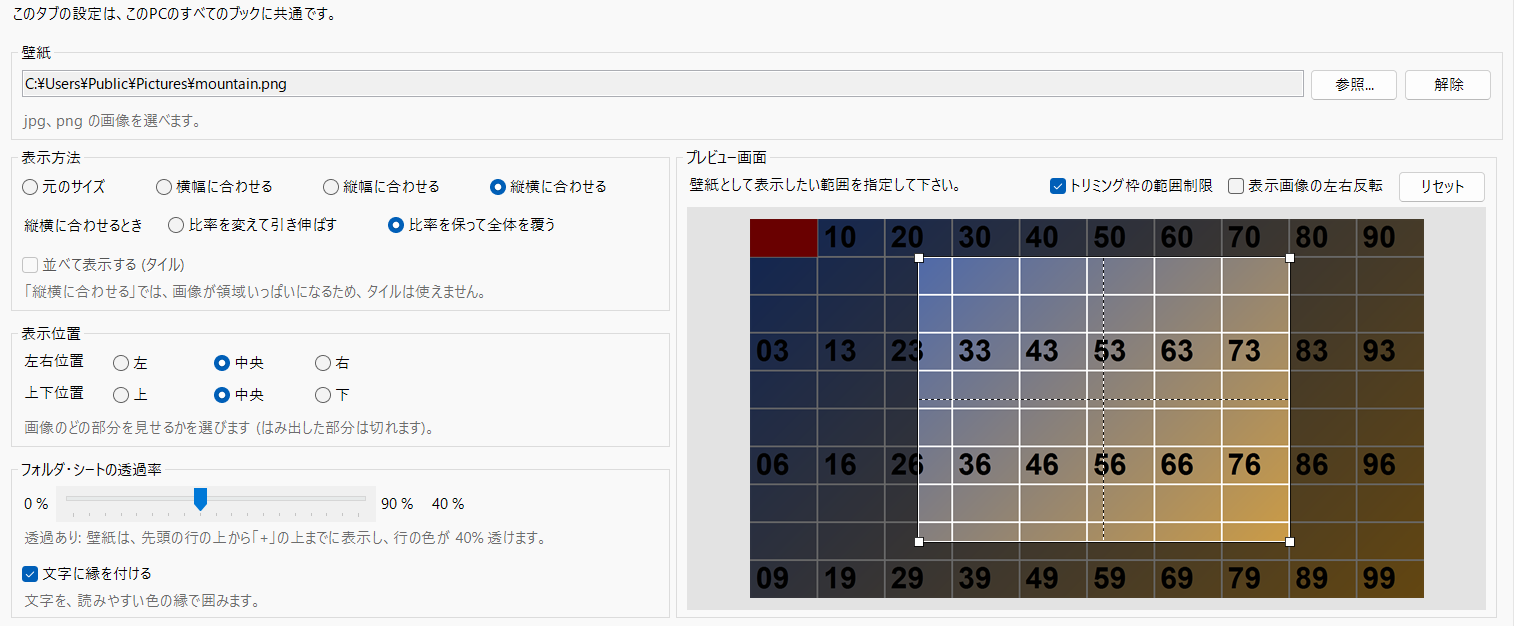
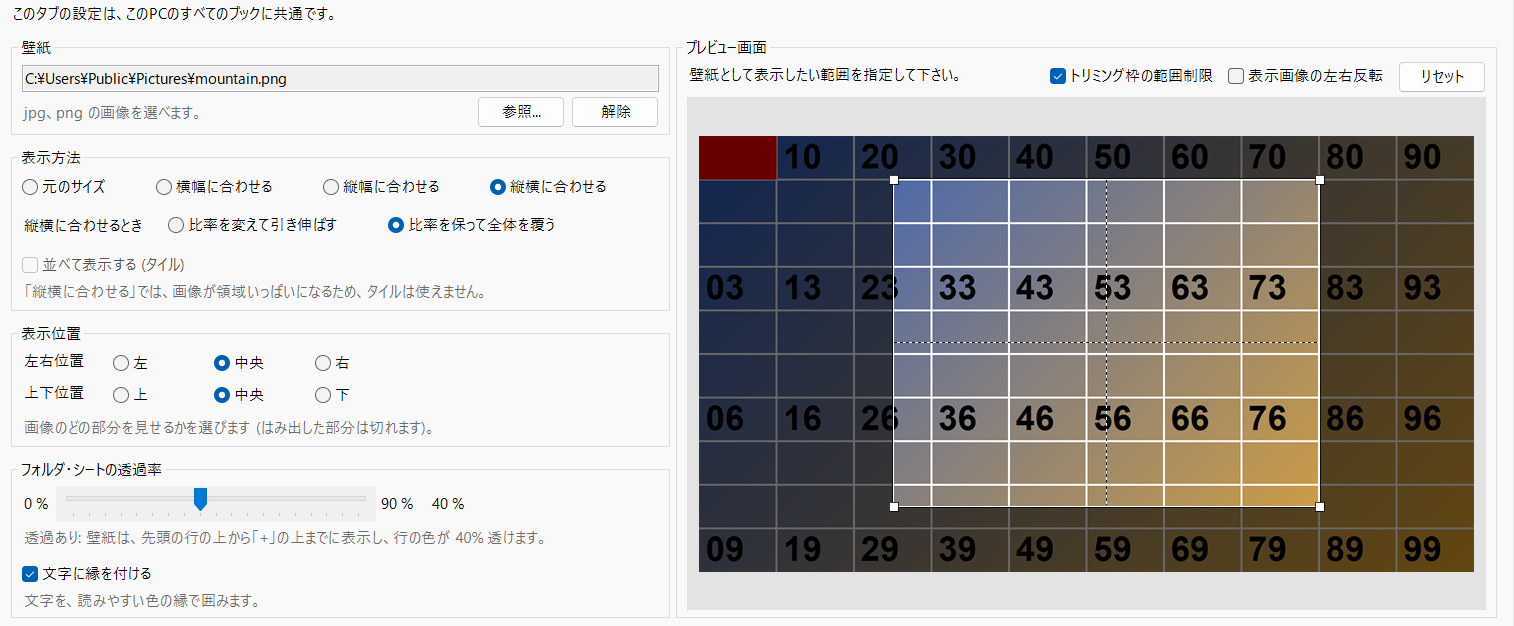
設定画面の「背景」タブの配置を変える (壁紙を左の列に入れる)
- 壁紙のグループを全幅の上段から、左の列の最上段へ移した。プレビュー画面は、右の列の全高になる
- 壁紙のグループは、パス欄を全幅の1段目、説明文と「参照...」「解除」を2段目にした (高さは従来と同じ)
- Agents.md、DEVELOPMENT.md の配置の記述と、README の画像 (settings_background、settings_full) を更新

Changed region(s): [[0.0, 0.0607, 0.9934, 0.9712]]

diff --git a/VerticalSheetTabs/SettingsBackground.cs b/VerticalSheetTabs/SettingsBackground.cs
@@ -77,10 +77,12 @@ namespace VerticalSheetTabs
             _pathBox.Margin = new Padding(3, 4, 3, 3);
             _pathBox.MinimumSize = new Size(260, 0);
             table.Controls.Add(_pathBox, 0, 0);
-            table.Controls.Add(browse, 1, 0);
-            table.Controls.Add(clear, 2, 0);
+            table.SetColumnSpan(_pathBox, 3);
             table.Controls.Add(_status, 0, 1);
-            table.SetColumnSpan(_status, 3);
+            table.Controls.Add(browse, 1, 1);
+            table.Controls.Add(clear, 2, 1);
+            _status.Anchor = AnchorStyles.Left;
+            browse.Margin = clear.Margin = new Padding(3, 1, 3, 0);   // (the group is as high as before the buttons moved below the path box)
             WallpaperGroup = Group("壁紙", font, table, true);
 
             // 表示方法
@@ -194,14 +196,14 @@ namespace VerticalSheetTabs
             Refresh();
         }
 
-        // The lower part of the tab (the whole row is width pixels wide): on the left 表示方法, 表示位置 and 透過率 one below the other,
-        // on the right the preview, as high as the three together.
+        // The body of the tab (the whole row is width pixels wide): on the left 壁紙, 表示方法, 表示位置 and 透過率 one below the other,
+        // on the right the preview, as high as the four together.
         public Control BodyRow(int width)
         {
-            int leftW = Math.Max(FitGroup.Width, Math.Max(PositionGroup.Width, TransparencyGroup.Width));
+            int leftW = Math.Max(WallpaperGroup.Width, Math.Max(FitGroup.Width, Math.Max(PositionGroup.Width, TransparencyGroup.Width)));
             leftW = Math.Min(leftW, (width - 12) * 6 / 10);
             var left = Stack();
-            GroupBox[] groups = { FitGroup, PositionGroup, TransparencyGroup };
+            GroupBox[] groups = { WallpaperGroup, FitGroup, PositionGroup, TransparencyGroup };
             for (int i = 0; i < groups.Length; i++)
             {
                 groups[i].Dock = DockStyle.None;

diff --git a/VerticalSheetTabs/SettingsForm.cs b/VerticalSheetTabs/SettingsForm.cs
@@ -192,7 +192,7 @@ namespace VerticalSheetTabs
             // (the tabs other than "このブック" are kept for the whole PC)
             string pcNote = "このタブの設定は、このPCのすべてのブックに共通です。";
             _tabs.TabPages.Add(CreateBasicPage(width, leftW, pcNote, top, tabsHidden));
-            _tabs.TabPages.Add(CreatePage("背景", width, Banner(pcNote, width), _background.WallpaperGroup, _background.BodyRow(width)));
+            _tabs.TabPages.Add(CreatePage("背景", width, Banner(pcNote, width), _background.BodyRow(width)));
             _tabs.TabPages.Add(CreatePage("デザイン", width, Banner(pcNote, width), _markerGroup, _styleGroup, _outlineGroup));
             _animPage = CreatePage("アニメーション", width, Banner(pcNote, width), _wobbleGroup, _animGroup);
             _tabs.TabPages.Add(_animPage);

diff --git a/Agents.md b/Agents.md
@@ -177,7 +177,7 @@
 | タブ | 内容 |
 |---|---|
 | 基本 (PC) | **2列**。左列: 上段に、表示モード (横タブのみ / 横タブと縦タブの両方。初期の選択は、そのウィンドウの実際の状態) と、縦タブの位置 (横に並ぶ。「横タブのみ」のときは位置が無効)。下段に、縦タブの初回幅 (タイトルの直下に、説明「新しいブックを初めて開いたときの縦タブ幅の設定です。」。「文字数」「px」のラジオボタンと、それぞれのスライダーと数値入力 (数値入力は、2000が入る幅に余白を足しただけ。残りはスライダー)。選んでいない側は無効で、値は保つ。「横タブのみ」のときは、グループ全体が無効。下に、箇条書きの説明2行「文字数は、半角で 12 ～ 64 文字。」「px は、半角12文字分 (N px) から 2000 px まで。」。N は実際の幅)。「縦タブの位置」の枠の右辺は、「縦タブの初回幅」の枠の右辺にそろえる。右列: 「フォルダ＆シートの表示方法」(枠の上辺は、表示モードの上辺にそろえ、下辺は、タブの表示範囲に収める)。「吊り下げ方式 (標準)」「積み上げ方式」のラジオボタンと、それぞれの下の見本 (縦タブ本体 (`TabStrip`) の描画。道具の行、帯、フォルダ１ (開いている。中にシート１、シート２ (選択中))、シート３、「+」を、その方式で並べる。クリックで、そのラジオボタンを選ぶ。選択デザイン、マーカーの変更に追従する)。「横タブのみ」のときは、グループ全体が無効。開いているブックの横タブが隠れているときだけ、「このブックは、横タブが非表示のため、縦タブは表示されません。」の行を、左列の下に出す |
-| 背景 (PC) | 上段に、壁紙 (全幅。ファイルのパスの欄、「参照...」、「解除」、読み込めたかの表示。選ぶとき、`Wallpaper.Load` で確かめる)。下段は2列。左の列に、表示方法 (4つ。「縦横に合わせるとき」の比率の2つ、タイルのチェックを含む) / 表示位置 (左右、上下を、それぞれ3つ) / フォルダ・シートの透過率 (スライダー 0から90 %、5%刻み) と、「文字に縁を付ける」(透過率が0%のときは無効) を縦に並べる (幅は、3つのグループの自然な幅の最大で、全幅の6割まで)。右の列に、「プレビュー画面」(残りの幅。高さは、左の列と同じ)。表示方法で効かない設定は、無効にする (値は保つ) |
+| 背景 (PC) | **2列**。左の列に、壁紙 (1段目にファイルのパスの欄 (全幅)、2段目に読み込めたかの表示と、右端の「参照...」「解除」。選ぶとき、`Wallpaper.Load` で確かめる) / 表示方法 (4つ。「縦横に合わせるとき」の比率の2つ、タイルのチェックを含む) / 表示位置 (左右、上下を、それぞれ3つ) / フォルダ・シートの透過率 (スライダー 0から90 %、5%刻み) と、「文字に縁を付ける」(透過率が0%のときは無効) を縦に並べる (幅は、4つのグループの自然な幅の最大で、全幅の6割まで)。右の列に、「プレビュー画面」(残りの幅。上辺は壁紙の上辺、下辺は透過率の下辺にそろえる。高さは、左の列と同じ)。表示方法で効かない設定は、無効にする (値は保つ) |
 | デザイン (PC) | アクティブシートのマーカー表示 / フォルダ＆シート選択のデザイン (8つ。左端に「非選択」のサンプルが1つ、各デザインに「色なし」「色付き」の選択サンプル) / フォルダを囲む点線 |
 | アニメーション (PC) | 開閉したフォルダ＆選択したシートのアニメーション (動き、揺れの大きさ・長さ、揺れのリセット、効果音と音量、サンプルの見た目を合わせるチェック) / 追加・削除・完了のアニメーション |
 | バッジ (PC) | 表示するバッジ (数式エラー、メモ・コメント、シートの保護、進捗) / コメントの「そのセルへ移動」で、セルを表示する位置 (左上 / 中央上 / 行・列の中央。同じ間隔で横に並ぶ。メモ・コメントのバッジを選んでいないときは、無効で、選べない。値は保つ) |

diff --git a/DEVELOPMENT.md b/DEVELOPMENT.md
@@ -363,17 +363,17 @@ picture = トリミングなし ? source : source.Clone(src)        // 切り出
 
 ```
 [バナー: このタブの設定は、このPCのすべてのブックに共通です。]
-[壁紙 (全幅)                                                  ]
-[表示方法          ] [プレビュー画面 (説明文)        [リセット]]
-[表示位置          ] [                                        ]
-[フォルダ・シートの透過率] [   画像のプレビュー + トリミング枠   ]
+[壁紙              ] [プレビュー画面 (説明文)        [リセット]]
+[表示方法          ] [                                        ]
+[表示位置          ] [   画像のプレビュー + トリミング枠       ]
+[フォルダ・シートの透過率] [                                  ]
 ```
 
-- 左の列: 表示方法、表示位置、透過率の3つを縦に並べる。幅は、3つのグループの自然な幅の最大 (ただし、全幅の6割まで)
+- 左の列: 壁紙、表示方法、表示位置、透過率の4つを縦に並べる (壁紙は、以前は全幅の上段だった。配置の変更で、左の列に入れた)。幅は、4つのグループの自然な幅の最大 (ただし、全幅の6割まで)
 - 右の列: 「プレビュー画面」のグループ。幅は、残り全部。高さは、左の列と同じ
 - 「プレビュー画面」のタイトルの直下の行に、説明文「壁紙として表示したい範囲を指定して下さい。」と、右端の「リセット」ボタン。その下が、プレビュー (`CropPreview`)
 - 設定画面の高さは、変わらない (タブの高さは、中身の最大から、自動で決まり、いちばん高い「基本」のタブで決まる。背景タブは、その中に収まる)
-- `BackgroundPanel.PairRow(width)` は、`BodyRow(width)` (左の列と右の列を並べた部品) に替える。`SettingsForm` の「背景」タブは、バナー、壁紙、`BodyRow` の3行にする
+- `BackgroundPanel.PairRow(width)` は、`BodyRow(width)` (左の列と右の列を並べた部品) に替える。`SettingsForm` の「背景」タブは、バナーと `BodyRow` の2行にする (壁紙のグループも、`BodyRow` の左の列に入る)
 
 ### 部品: `CropPreview` (`Control`)
 
